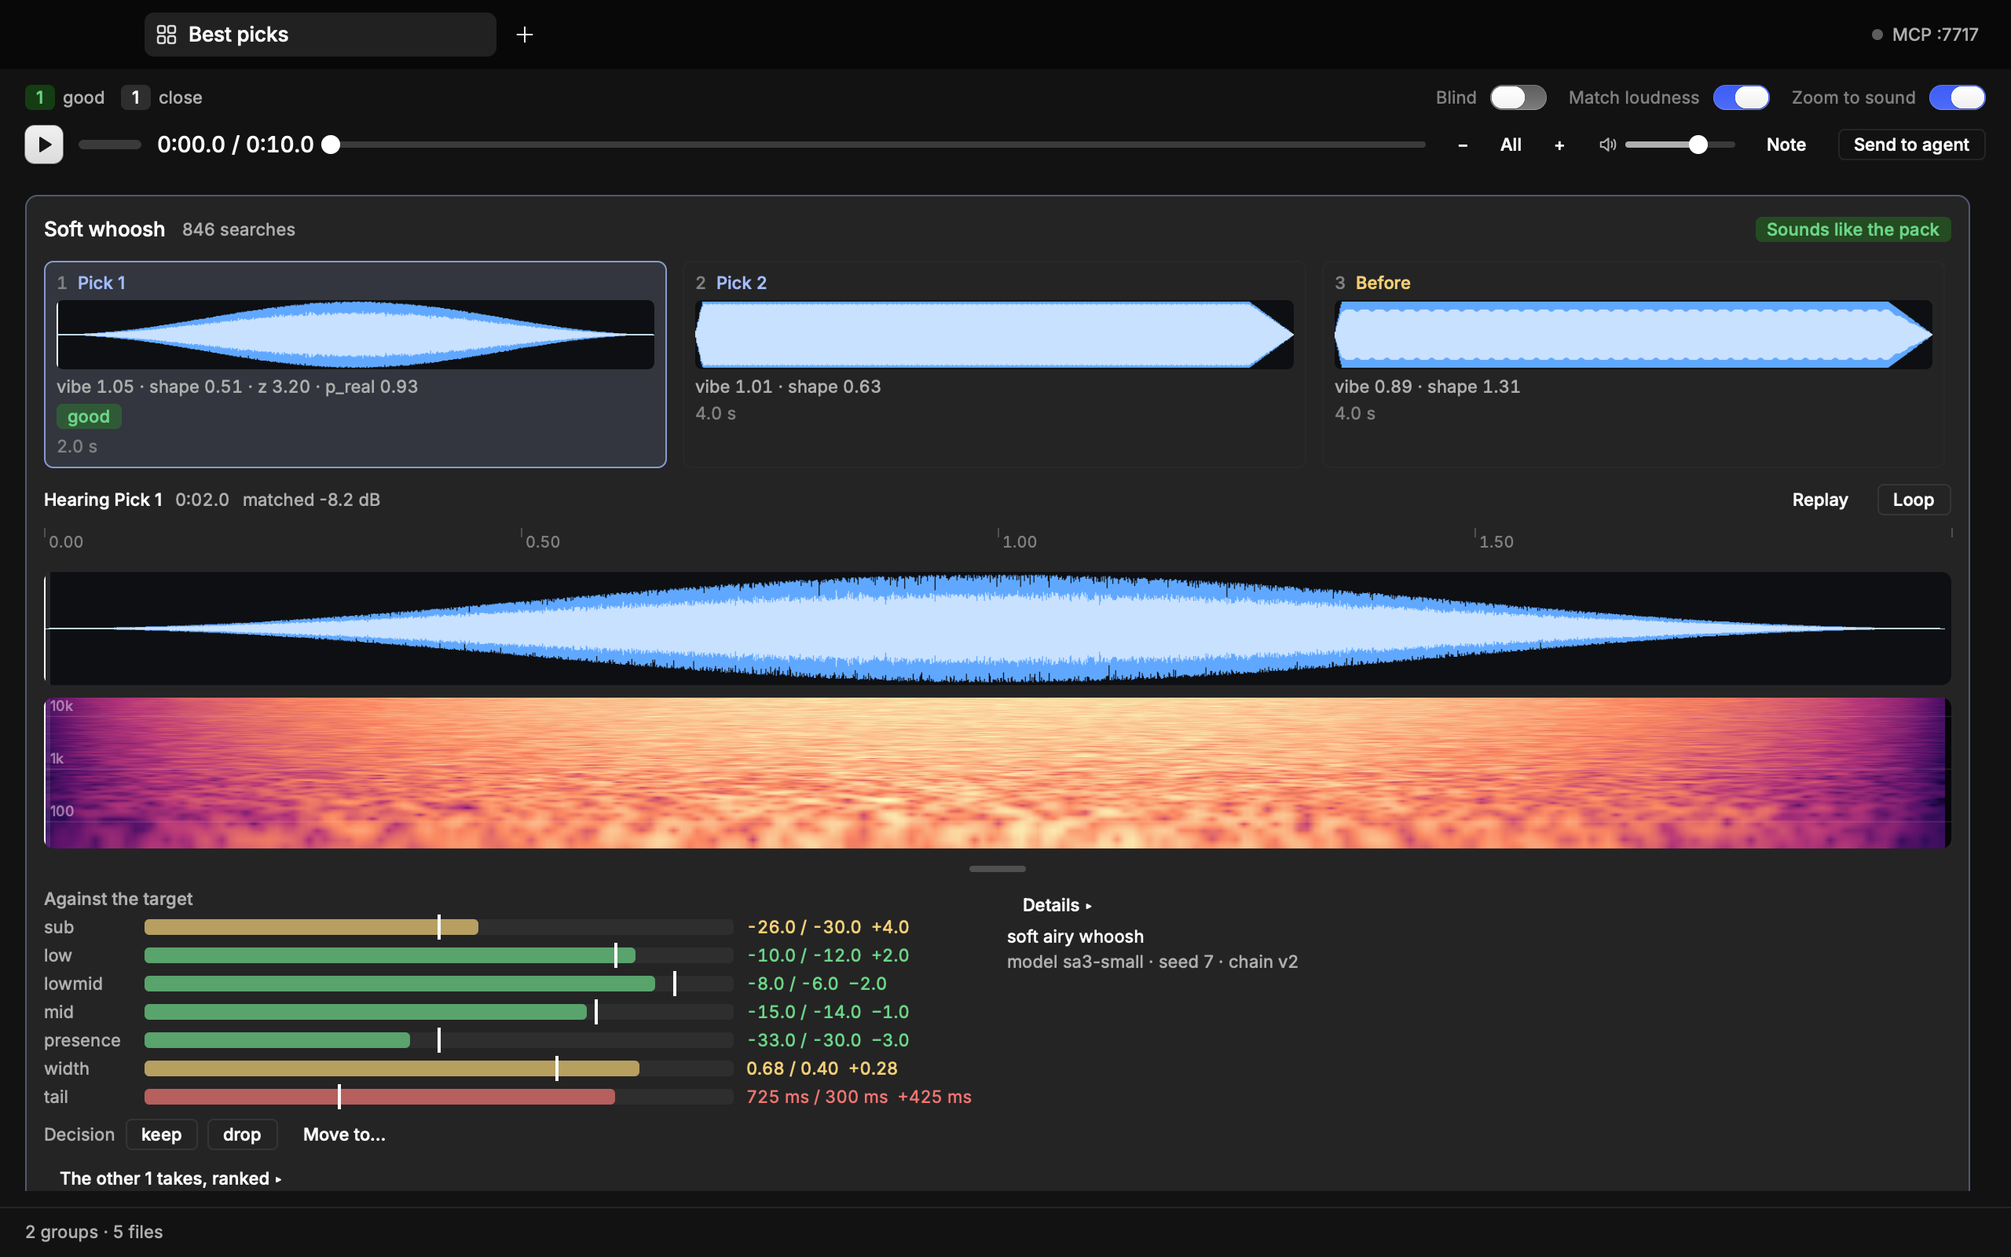
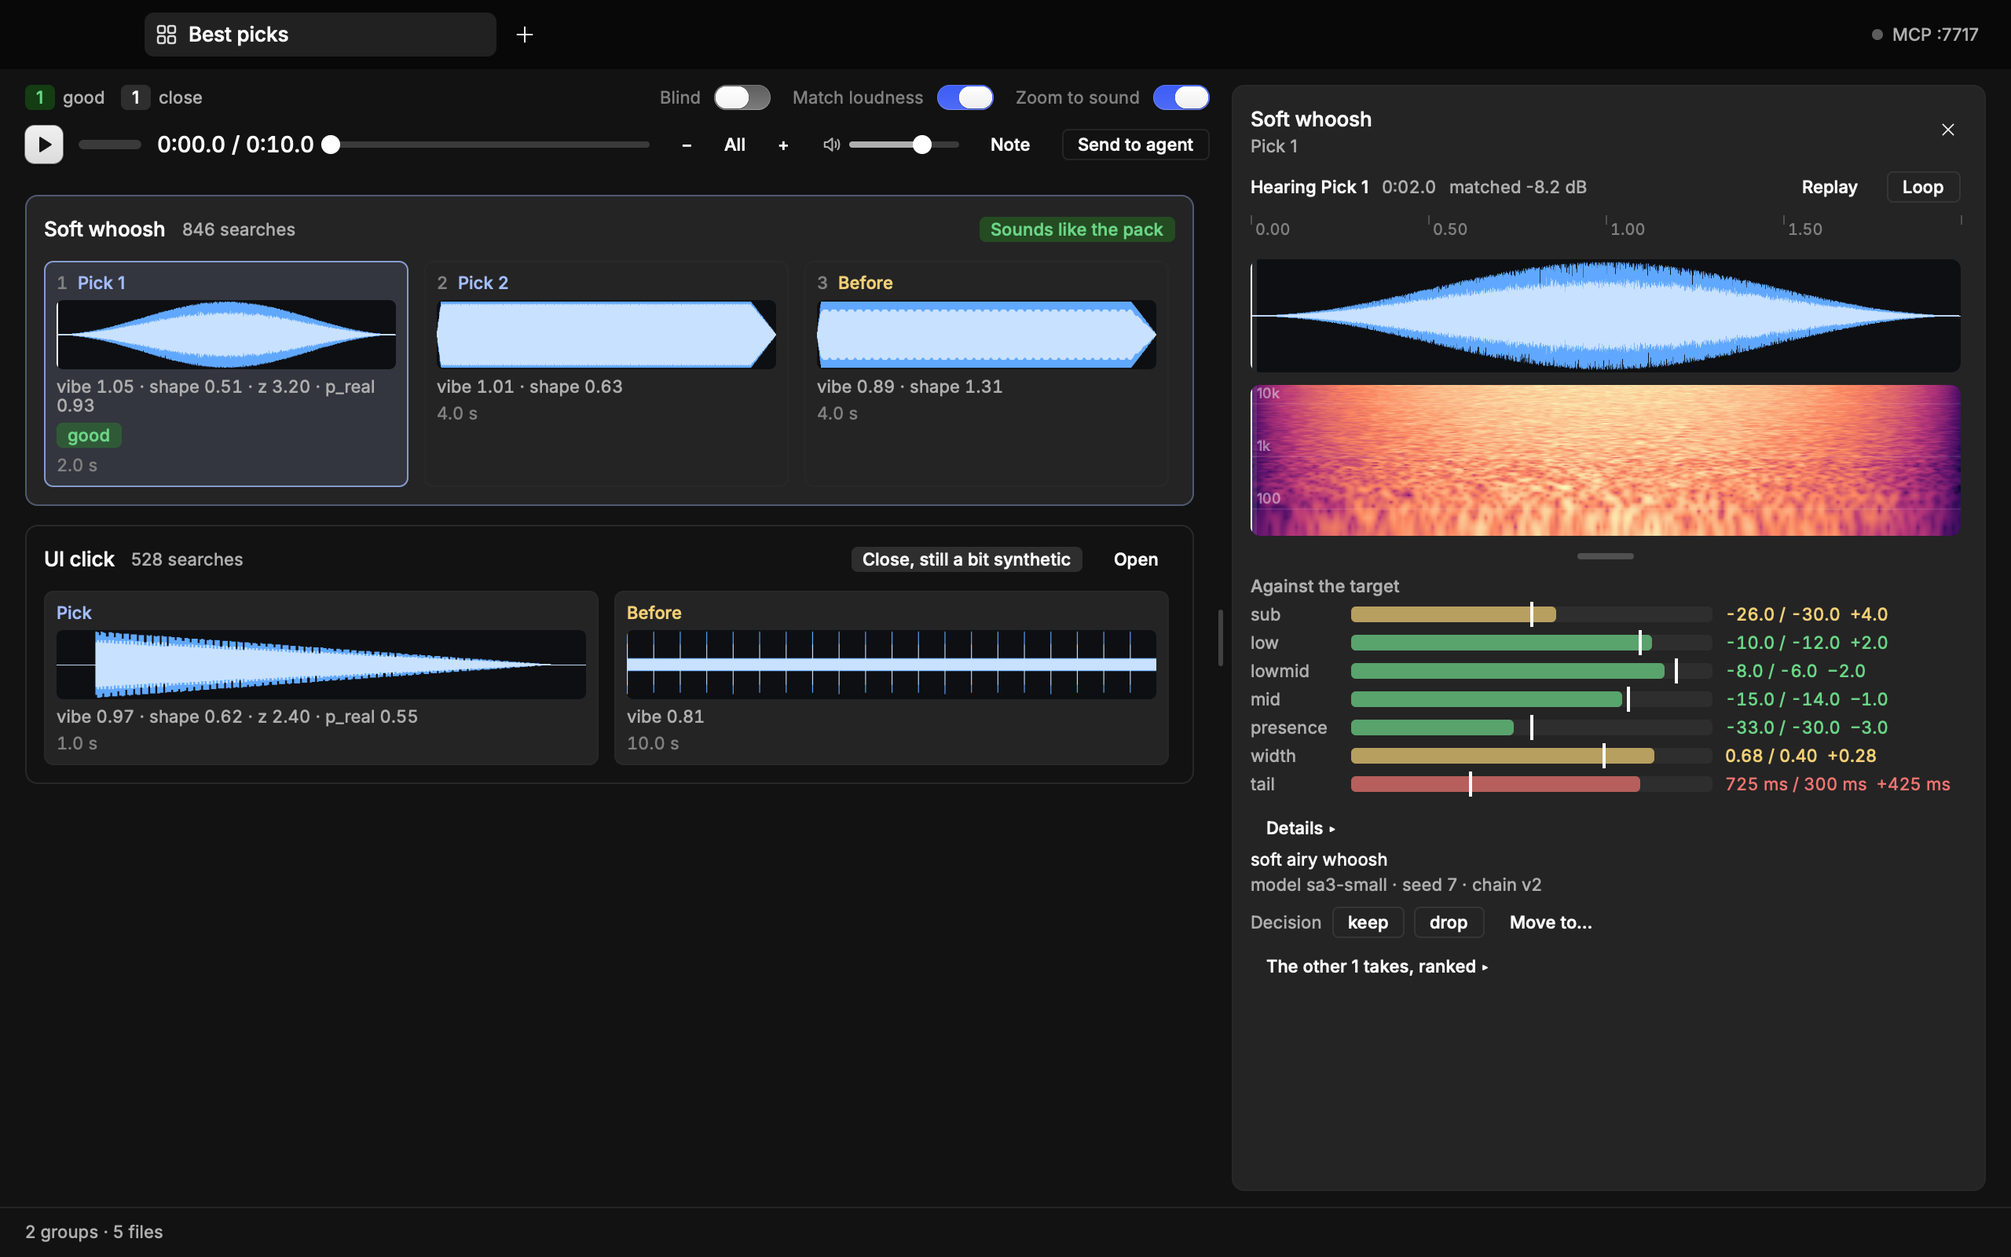
FEAT: detail sheet on the right (resizable, Esc closes, full page when narrow), held seeks fix scrubbing after a reload, just install (~/Applications/adeck.app) and clean-dev

diff --git a/src/ui/sheet.rs b/src/ui/sheet.rs
@@ -1,0 +1,88 @@
+//! The sheet: the focused group's detail (graph first, then the target bars, what made it,
+//! the decision and the ranked rest) in a panel that slides in on the right, beside the tiles
+//! or pads instead of under them. Drag its left edge to resize; × or Esc closes it. In a
+//! narrow window it takes the page, with a way back.
+
+use rune::{Drag, El, Phase, Tx, col, el, row, spacer, text};
+use rune_kit::{IconButton, IconButtonVariant, Kit};
+
+use crate::app::{App, Tab};
+use crate::ui::{board, icons};
+
+/// Below this the sheet takes the whole page.
+pub const NARROW: f32 = 760.0;
+const GAP: f32 = 14.0;
+
+/// The width the main column keeps beside an open sheet.
+pub fn main_width(s: &App, t: &Tab, width: f32) -> f32 {
+    if is_open(t) && width >= NARROW { width - sheet_w(s, width) - GAP } else { width }
+}
+
+pub fn is_open(t: &Tab) -> bool {
+    t.sheet_open && t.focused().is_some()
+}
+
+fn sheet_w(s: &App, width: f32) -> f32 {
+    s.sheet_w.clamp(320.0, (width * 0.7).max(320.0))
+}
+
+/// `main` with the sheet beside it (or instead of it, when narrow).
+pub fn wrap(s: &App, t: &Tab, main: El, width: f32, k: &Kit) -> El {
+    if !is_open(t) {
+        return main;
+    }
+    let Some(g) = t.focused() else { return main };
+    let c = &k.c;
+    let narrow = width < NARROW;
+    let w = if narrow { width } else { sheet_w(s, width) };
+    let label = t.board_label(g, t.active);
+    let close = IconButton::new(if narrow { &icons::CHEVRON_RIGHT } else { &icons::CLOSE })
+        .variant(IconButtonVariant::Ghost)
+        .label(if narrow { "Back to the list" } else { "Close the sheet · Esc" })
+        .on_press(|s: &mut App| s.toggle_sheet())
+        .build(k)
+        .key("sheet-close");
+    let head = row()
+        .key("sheet-head")
+        .w_full()
+        .gap(8.0)
+        .center_y()
+        .child(col().gap(1.0).min_w(0.0).shrink().child(text(g.title().to_owned()).font(k.ty.ui_medium).color(c.text_base).truncate()).child(text(label).font(k.ty.small).color(c.text_muted)))
+        .child(spacer())
+        .child(close);
+    let inner = w - 28.0;
+    let body = col().key("sheet-scroll").w_full().grow(1.0).min_h(0.0).scroll(rune::ScrollSpec { stick_bottom: false }).child(col().w_full().pr(4.0).child(board::detail(s, t, g, inner, k)));
+    let mut sheet = col()
+        .key("sheet")
+        .w(w)
+        .h_full()
+        .min_h(0.0)
+        .px(12.0)
+        .py(12.0)
+        .gap(10.0)
+        .radius(k.radius.lg)
+        .fill(c.layer_01)
+        .border(1.0, c.border_weak)
+        .transition(rune::Transition::offset(48.0, 0.0).combined(rune::Transition::opacity()))
+        .child(head)
+        .child(body);
+    if narrow {
+        return sheet;
+    }
+    // The left edge: drag to resize.
+    let grip = el()
+        .key("sheet-grip")
+        .w(GAP)
+        .h_full()
+        .cursor(rune::Cursor::ResizeColumn)
+        .help("Drag to resize the sheet")
+        .child(row().w_full().h_full().center().child(el().w(3.0).h(36.0).radius(2.0).fill(c.border_strong)))
+        .on_drag(|s: &mut App, d: &mut Drag, _tx: &mut Tx| {
+            if matches!(d.phase, Phase::Down) {
+                d.data = s.sheet_w;
+            }
+            s.sheet_w = (d.data - d.dx).clamp(320.0, 1400.0);
+        });
+    sheet = sheet.animate_layout();
+    row().key("with-sheet").w_full().h_full().min_h(0.0).child(col().w(width - w - GAP).h_full().min_h(0.0).child(main)).child(grip).child(sheet)
+}

diff --git a/src/app.rs b/src/app.rs
@@ -108,7 +108,7 @@ pub struct Tab {
     pub zoom_sound: bool,
     pub move_open: bool,
     /// Pads: show the focused group's waveform, spectrogram and target bars.
-    pub pads_detail: bool,
+    pub sheet_open: bool,
     /// The stretch of time the strips show, when zoomed in; `None` fits the whole file.
     pub view: Option<(f64, f64)>,
     /// Strip height, as a multiple of each strip's own.
@@ -122,6 +122,7 @@ pub struct Tab {
 impl Tab {
     pub fn new(spec: TabSpec) -> Tab {
         let spec_kind = spec.kind;
+        let sheet = spec.board.as_ref().is_some_and(|b| !b.is_pads());
         let filter = TextEdit::new(spec.filter.clone().unwrap_or_default());
         Tab {
             spec,
@@ -140,7 +141,7 @@ impl Tab {
             details_open: false,
             zoom_sound: true,
             move_open: false,
-            pads_detail: false,
+            sheet_open: sheet,
             view: None,
             strip_h: 1.0,
             note_open: spec_kind == TabKind::Run,
@@ -295,6 +296,8 @@ pub struct App {
     /// The new-tab menu, and the runs it offers (listed when it opens).
     pub new_menu: bool,
     pub menu_runs: Vec<String>,
+    /// The detail sheet's width, kept across tabs.
+    pub sheet_w: f32,
     dirty: bool,
     pub headless: bool,
 }
@@ -337,6 +340,7 @@ impl App {
             toast: cfg_error.map(|e| (e, true)),
             new_menu: false,
             menu_runs: Vec::new(),
+            sheet_w: 480.0,
             dirty: false,
             headless,
         };
@@ -885,6 +889,7 @@ impl App {
         let kind = if diff.is_some() { TabKind::Diff } else { TabKind::Board };
         let id = self.open(kind, Vec::new(), label, blind, loudness_match, None, None);
         if let Some(t) = self.tab_mut(id) {
+            t.sheet_open = board.as_ref().is_some_and(|b| !b.is_pads());
             t.spec.board = board;
             t.spec.diff = diff;
         }
@@ -953,6 +958,9 @@ impl App {
     /// playing switches at the same moment, a press on the one playing starts it again.
     pub fn board_play(&mut self, key: &str, idx: usize) {
         self.focus_group(key);
+        if let Some(t) = self.current_mut() {
+            t.sheet_open = true;
+        }
         let Some(t) = self.current() else { return };
         if idx >= t.spec.items.len() {
             return;
@@ -1387,6 +1395,12 @@ impl App {
 
     pub fn set_volume(&mut self, v: f32) {
         self.mixer.set_volume(v);
+    }
+
+    pub fn toggle_sheet(&mut self) {
+        if let Some(t) = self.current_mut() {
+            t.sheet_open ^= true;
+        }
     }
 
     pub fn toggle_note(&mut self) {

diff --git a/src/scenes.rs b/src/scenes.rs
@@ -365,7 +365,17 @@ mod tests {
         for _ in 0..20 {
             rt.frame(1.0 / 60.0);
         }
-        for key in ["tile-whoosh-soft-0", "tile-whoosh-soft-2", "analysis", "details", "board-head"] {
+        // Narrow: the sheet takes the page, and closing it shows the tiles.
+        for key in ["sheet", "analysis", "details", "bwave"] {
+            let (r, _) = rt.presented(key).unwrap_or_else(|| panic!("{key}"));
+            assert!(r[0] >= 0.0 && r[0] + r[2] <= 390.5, "{key} spills: {r:?}");
+        }
+        rt.state.toggle_sheet();
+        rt.invalidate();
+        for _ in 0..20 {
+            rt.frame(1.0 / 60.0);
+        }
+        for key in ["tile-whoosh-soft-0", "tile-whoosh-soft-2", "board-head"] {
             let (r, _) = rt.presented(key).unwrap_or_else(|| panic!("{key}"));
             assert!(r[0] >= 0.0 && r[0] + r[2] <= 390.5, "{key} spills: {r:?}");
         }
@@ -458,10 +468,30 @@ mod tests {
         let files = ids(&["tick", "tone-a"]);
         let v = rt.state.call("open_pads", &serde_json::json!({"items": files, "label": "Clicks"})).unwrap();
         assert_eq!(v["board"]["groups"], 1);
-        rt.state.current_mut().unwrap().pads_detail = true;
+        rt.state.current_mut().unwrap().sheet_open = true;
         rt.invalidate();
         rt.frame(1.0 / 60.0);
         assert!(rt.find("pad-pads-1").is_some() && rt.find("bwave").is_some());
+    }
+
+    #[test]
+    fn dragging_across_the_waveform_scrubs() {
+        let mut rt = rt(single);
+        let (x, y) = rt.find("wave").expect("wave");
+        let ([sx, _, sw, _], _) = rt.presented("wave").unwrap();
+        rt.pointer_down(sx + sw * 0.2, y);
+        rt.frame(1.0 / 60.0);
+        let at_down = rt.state.mixer.secs();
+        rt.pointer_move(sx + sw * 0.5, y);
+        rt.frame(1.0 / 60.0);
+        rt.pointer_move(sx + sw * 0.7, y);
+        rt.frame(1.0 / 60.0);
+        let mid = rt.state.mixer.secs();
+        rt.pointer_up(sx + sw * 0.7, y);
+        rt.frame(1.0 / 60.0);
+        eprintln!("down {at_down} mid {mid} end {} x {x}", rt.state.mixer.secs());
+        assert!((at_down - 2.0).abs() < 0.3, "press lands at 20%: {at_down}");
+        assert!((mid - 7.0).abs() < 0.3, "drag follows: {mid}");
     }
 
     #[test]

diff --git a/src/mixer.rs b/src/mixer.rs
@@ -67,6 +67,8 @@ pub struct Mixer {
     pending: Option<(u64, Paths)>,
     /// Output volume, 0 to 1.5 (linear).
     pub volume: f32,
+    /// A seek asked for while the files were still decoding, in seconds, applied once they land.
+    pending_seek: Option<f64>,
 }
 
 impl Default for Mixer {
@@ -88,6 +90,7 @@ impl Default for Mixer {
             waker: None,
             pending: None,
             volume: 1.0,
+            pending_seek: None,
         }
     }
 }
@@ -155,6 +158,7 @@ impl Mixer {
         self.next_set += 1;
         self.loaded = Some((owner, ids));
         self.want_play = false;
+        self.pending_seek = None;
         self.frames = 0;
         self.active = 0;
         self.loop_frames = None;
@@ -237,6 +241,9 @@ impl Mixer {
     }
 
     pub fn secs(&self) -> f64 {
+        if let Some(p) = self.pending_seek {
+            return p;
+        }
         self.position() as f64 / f64::from(self.rate)
     }
 
@@ -245,6 +252,11 @@ impl Mixer {
     }
 
     pub fn seek_secs(&mut self, s: f64) {
+        // Before the files have decoded there's no length to clamp to: hold the seek.
+        if self.frames == 0 {
+            self.pending_seek = Some(s.max(0.0));
+            return;
+        }
         self.seek_frames((s.max(0.0) * f64::from(self.rate)) as u64);
     }
 
@@ -305,6 +317,9 @@ impl Mixer {
                     self.error = None;
                     self.send(Cmd::Load { set, tracks });
                     self.send(Cmd::Active(self.active));
+                    if let Some(p) = self.pending_seek.take() {
+                        self.seek_secs(p);
+                    }
                     if self.want_play {
                         self.play();
                     }

diff --git a/src/ui/mod.rs b/src/ui/mod.rs
@@ -4,6 +4,7 @@ pub mod board;
 pub mod compare;
 pub mod diff;
 pub mod pads;
+pub mod sheet;
 pub mod icons;
 pub mod render;
 pub mod run;
@@ -36,8 +37,11 @@ pub fn view(s: &App, cx: &mut Cx<App>) -> El {
             TabKind::Compare => compare::build(s, t, width, k),
             TabKind::Render => render::build(s, t, width, k),
             TabKind::Run => run::build(s, t, k),
-            TabKind::Board if t.board().is_some_and(crate::board::Board::is_pads) => pads::build(s, t, width, k),
-            TabKind::Board => board::build(s, t, width, k),
+            TabKind::Board => {
+                let main_w = sheet::main_width(s, t, width);
+                let main = if t.board().is_some_and(crate::board::Board::is_pads) { pads::build(s, t, main_w, k) } else { board::build(s, t, main_w, k) };
+                sheet::wrap(s, t, main, width, k)
+            }
             TabKind::Diff => diff::build(s, t, width, k),
         },
     };
@@ -352,7 +356,13 @@ fn board_key(s: &mut App, ev: &KeyEvent) -> bool {
         rune::Key::Left => s.board_step_member(-1),
         rune::Key::Right => s.board_step_member(1),
         rune::Key::Enter => s.board_pick(),
-        rune::Key::Escape => s.set_loop(None),
+        rune::Key::Escape => {
+            if s.current().is_some_and(|t| t.loop_secs.is_some()) {
+                s.set_loop(None);
+            } else {
+                s.toggle_sheet();
+            }
+        }
         rune::Key::Text(ch) if ch.chars().count() == 1 => {
             let d = ch.chars().next().unwrap_or(' ').to_ascii_lowercase();
             match d {

diff --git a/src/ui/pads.rs b/src/ui/pads.rs
@@ -43,13 +43,9 @@ pub fn build(s: &App, t: &Tab, width: f32, k: &Kit) -> El {
         .child(Switch::new(t.spec.blind).label("Blind").on_toggle(|s: &mut App| s.toggle_blind()).build(k).key("blind"))
         .child(Switch::new(t.spec.loudness_match).label("Match loudness").on_toggle(|s: &mut App| s.toggle_loudness_match()).build(k).key("match"))
         .child(
-            Switch::new(t.pads_detail)
+            Switch::new(t.sheet_open)
                 .label("Waveforms")
-                .on_toggle(|s: &mut App| {
-                    if let Some(t) = s.current_mut() {
-                        t.pads_detail ^= true;
-                    }
-                })
+                .on_toggle(|s: &mut App| s.toggle_sheet())
                 .build(k)
                 .key("pads-detail")
                 .help("Show the waveform, spectrogram and target bars for the pad you played"),
@@ -111,9 +107,7 @@ fn group(s: &App, t: &Tab, g: &Group, on: bool, width: f32, k: &Kit) -> El {
         }
         out = out.child(line);
     }
-    if on && t.pads_detail {
-        out = out.child(col().w_full().px(12.0).py(12.0).radius(k.radius.lg).fill(c.layer_01).child(board::detail(s, t, g, width - 24.0, k)));
-    }
+    let _ = on;
     out
 }
 

diff --git a/src/ui/board.rs b/src/ui/board.rs
@@ -92,7 +92,19 @@ fn group_card(s: &App, t: &Tab, g: &Group, on: bool, width: f32, k: &Kit) -> El 
     }
     if !on {
         let k2 = key.clone();
-        head = head.child(Button::new("Open").variant(ButtonVariant::Ghost).control_size(ControlSize::Small).on_press(move |s: &mut App| s.focus_group(&k2)).build(k).key(format!("open-{key}")));
+        head = head.child(
+            Button::new("Open")
+                .variant(ButtonVariant::Ghost)
+                .control_size(ControlSize::Small)
+                .on_press(move |s: &mut App| {
+                    s.focus_group(&k2);
+                    if let Some(t) = s.current_mut() {
+                        t.sheet_open = true;
+                    }
+                })
+                .build(k)
+                .key(format!("open-{key}")),
+        );
     }
     let mut card = col()
         .key(format!("group-{key}"))
@@ -125,7 +137,7 @@ fn group_card(s: &App, t: &Tab, g: &Group, on: bool, width: f32, k: &Kit) -> El 
     if let Some(n) = &g.note {
         card = card.child(rune_kit::Markdown::new(n.clone()).build(k));
     }
-    card.child(detail(s, t, g, inner, k))
+    card
 }
 
 /// One member: click anywhere on it to play it.

diff --git a/README.md b/README.md
@@ -12,8 +12,8 @@ Forked from [Sleeve](https://github.com/alii/sleeve), a rekordbox app by Alistai
 - **A compare (2 to 9 files)**: every waveform on one time axis with one playhead. They all play at once and you hear one; keys 1 to 9 switch at exactly the same moment, with no gap. Loudness matching (on by default) brings each file to the same LUFS, so the louder one doesn't win by being louder. Blind mode hides the names as X, Y, Z until you pick. A table shows only the metadata that differs. Enter picks the one you're hearing.
 - **A render**: the video, earshot's scorecard and fixes, and every picture cut marked by whether it got a hit, some sound, or silence. Several renders switch like a compare.
 - **A run**: every item as a sortable table. Filter by any text, show what you haven't scored, open one or compare a selection.
-- **A board**: one card per group (a category, say), sorted by whatever the agent says matters (search count, say), each a row of tiles: the picks, the raw "before", the reference files, with the agent's numbers and a verdict chip, and a tally on top. Click a tile to play it; only one plays, and switching inside a group keeps the position, loudness-matched. The group in focus opens up: waveform and spectrogram zoomed to the sound (a 60 ms click fills the strip), bands, stereo width, tail and attack against the group's target, what made the file (prompt, model, seed, chain, a copyable path), keep / drop / move-to, and the ranked rest of the takes, folded. Blind hides who's who in each group as X, Y, Z until you pick. The agent adds or replaces groups while it's open.
-- **Pads**: for one-shot effects. Each file is a big button: click it, or press its key (1 to 0, then Q to P), and it plays from the top, cutting off whatever was playing, with a bar filling as it plays. Score it 0 to 3 on the pad (or Z X C V for the one you just played), keep or drop it. The Waveforms switch opens the strips and target bars only when you want them. The agent opens pads with `open_pads` (a list of files, or groups) or a board with `layout: "pads"`.
+- **A board**: one card per group (a category, say), sorted by whatever the agent says matters (search count, say), each a row of tiles: the picks, the raw "before", the reference files, with the agent's numbers and a verdict chip, and a tally on top. Click a tile to play it; only one plays, and switching inside a group keeps the position, loudness-matched. The group in focus opens in a sheet on the right (drag its left edge to resize, × or Esc closes it, and in a narrow window it takes the page): waveform and spectrogram zoomed to the sound (a 60 ms click fills the strip), bands, stereo width, tail and attack against the group's target, what made the file (prompt, model, seed, chain, a copyable path), keep / drop / move-to, and the ranked rest of the takes, folded. Blind hides who's who in each group as X, Y, Z until you pick. The agent adds or replaces groups while it's open.
+- **Pads**: for one-shot effects. Each file is a big button: click it, or press its key (1 to 0, then Q to P), and it plays from the top, cutting off whatever was playing, with a bar filling as it plays. Score it 0 to 3 on the pad (or Z X C V for the one you just played), keep or drop it. The Waveforms switch slides the same sheet in from the right only when you want it. The agent opens pads with `open_pads` (a list of files, or groups) or a board with `layout: "pads"`.
 - **A diff**: run A against run B, one row per group, one column per metric, the change coloured by which way is better, with how many got better and worse. A row that names a file from each side opens them as a compare.
 
 Press or drag on a waveform to scrub; drag along the time ruler above it to loop a stretch (click the ruler to clear it). − and + zoom the time axis around the playhead (= and − on the keyboard, F fits the file or the loop, [ and ] pan), and a zoomed view follows the playhead as it plays. Drag the handle under the strips to make them taller. The transport has a scrubber over the whole file, the output level and a volume. Space plays, ← and → step a second (with ⇧, five), Esc clears the loop, ⌘W closes the tab. Tabs come back when you reopen adeck.
@@ -38,7 +38,7 @@ cd adeck
 cargo run --release
 ```
 
-The first build takes a few minutes.
+The first build takes a few minutes. To keep it as an app, `just install` builds a release and installs `~/Applications/adeck.app` (run it again to update in place); `just clean-dev` frees the debug build afterwards.
 
 ## Connect your agent
 
